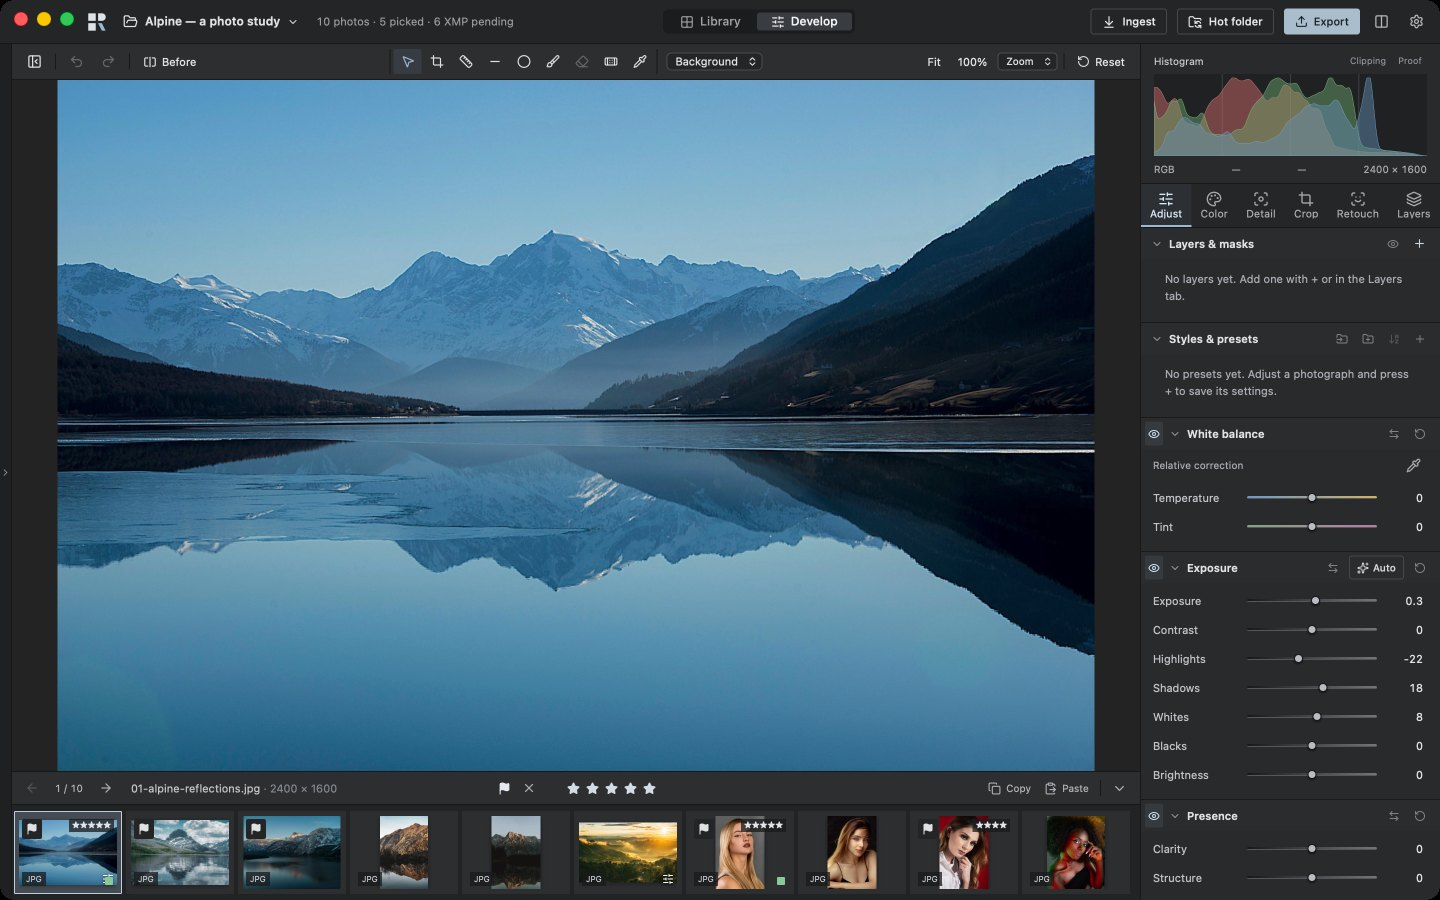
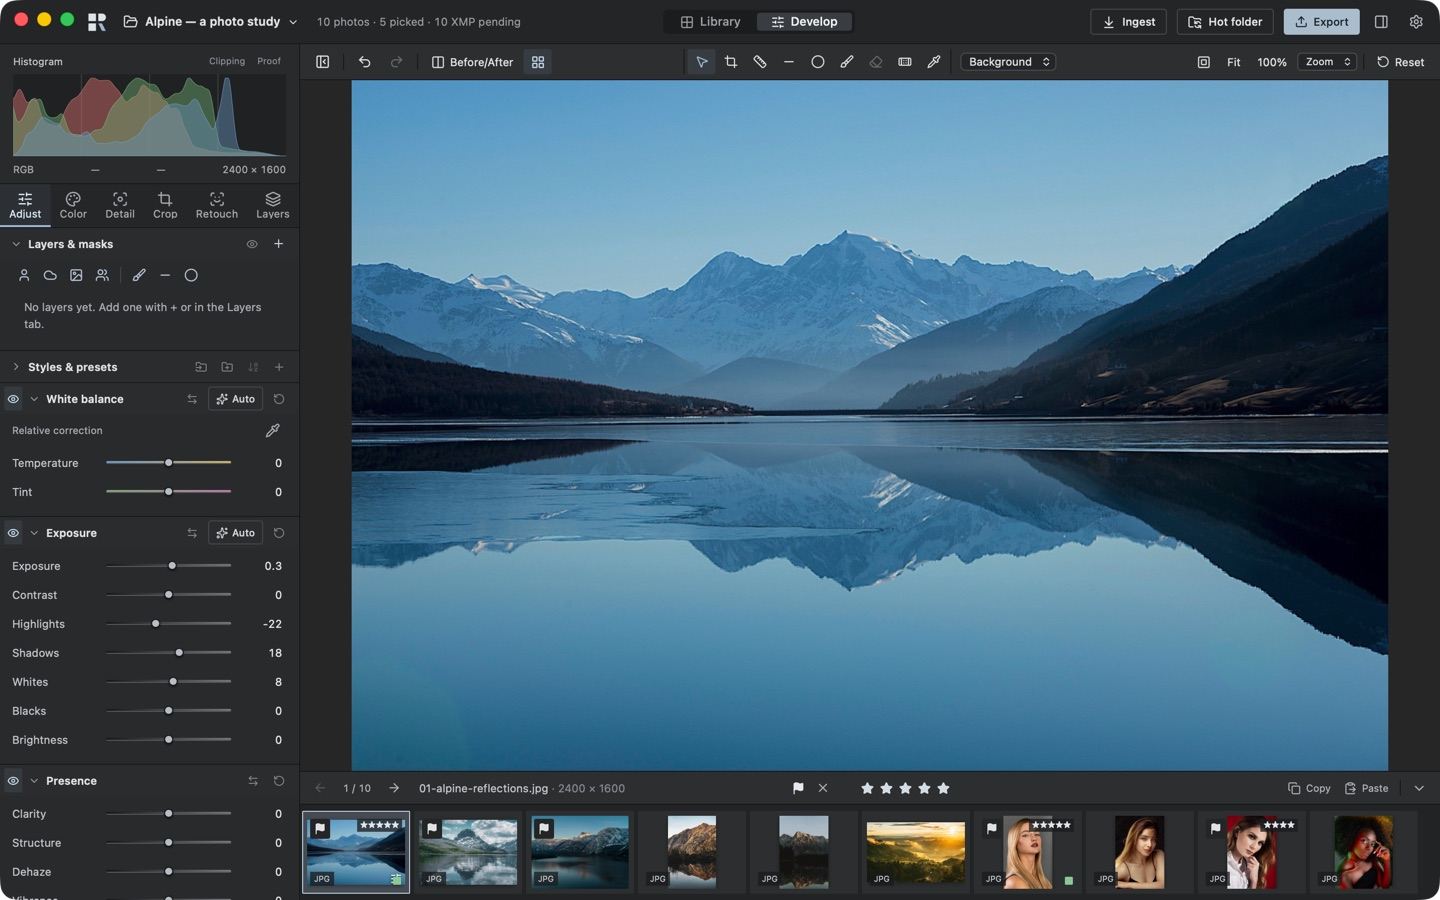
docs(readme): screenshots of 0.1.0-alpha.2
The Develop screenshots show the current layout (tools on the left,
Before/After and multi view in the bar); new: multi view and Relight.

diff --git a/docs/images/CREDITS.md b/docs/images/CREDITS.md
@@ -1,6 +1,6 @@
 # README photography and screenshots
 
-The `readme-*.jpg` images are genuine window captures of Rawtonic 0.1.0-alpha.1 on macOS (October 11, 2026), made in a disposable showcase session. They show JPEG photographs, not RAW comparison results. The retouch screenshot shows Rawtonic's automatic face retouch (Blemishes 40, Even skin 20, Dark circles 25) on the studio portrait as rendered by the app; the photographs themselves were not otherwise edited. The source photographs are used under the [Pexels license](https://www.pexels.com/license/); they are not covered by the repository's software license. The photographers do not endorse Rawtonic.
+The `readme-*.jpg` images are genuine window captures of Rawtonic on macOS, made in a disposable showcase session: Library and Export with 0.1.0-alpha.1 (October 11, 2026); Develop, Color, Masks, Retouch, Multi view and Relight with 0.1.0-alpha.2 (October 16, 2026). The Relight screenshot shows one added light (intensity 80) with the original light at 35 in the before/after split. They show JPEG photographs, not RAW comparison results. The retouch screenshot shows Rawtonic's automatic face retouch (Blemishes 40, Even skin 20, Dark circles 25) on the studio portrait as rendered by the app; the photographs themselves were not otherwise edited. The source photographs are used under the [Pexels license](https://www.pexels.com/license/); they are not covered by the repository's software license. The photographers do not endorse Rawtonic.
 
 | Photograph in the demo | Photographer                   | Source                                                                                                                                                            |
 | :--------------------- | :----------------------------- | :---------------------------------------------------------------------------------------------------------------------------------------------------------------- |

diff --git a/README.md b/README.md
@@ -99,6 +99,16 @@ The **Develop** room gives the photograph the space: a filmstrip, a histogram an
 <br><b>Local adjustments.</b> Brush, linear and radial masks, colour and luminance ranges, and one-click masks for the subject, sky, background, depth or people.
 </td>
 </tr>
+<tr>
+<td width="50%" valign="top">
+<a href="docs/images/readme-multiview.jpg"><img src="docs/images/readme-multiview.jpg" alt="Multi view: four portraits side by side, the first one the reference"></a>
+<br><b>Multi view.</b> Compare up to twelve selected photographs side by side, with a reference photo and a locked zoom, and edit them all at once.
+</td>
+<td width="50%" valign="top">
+<a href="docs/images/readme-relight.jpg"><img src="docs/images/readme-relight.jpg" alt="Relight in a before/after split: a new warm light brightens the shadow side of a portrait's face"></a>
+<br><b>Relight</b> <i>(experimental)</i>. A new light added after the shoot, here in the before/after split: the shadow side of the face is brightened and the original light turned down.
+</td>
+</tr>
 </table>
 
 ### 4 · Retouch and merge
